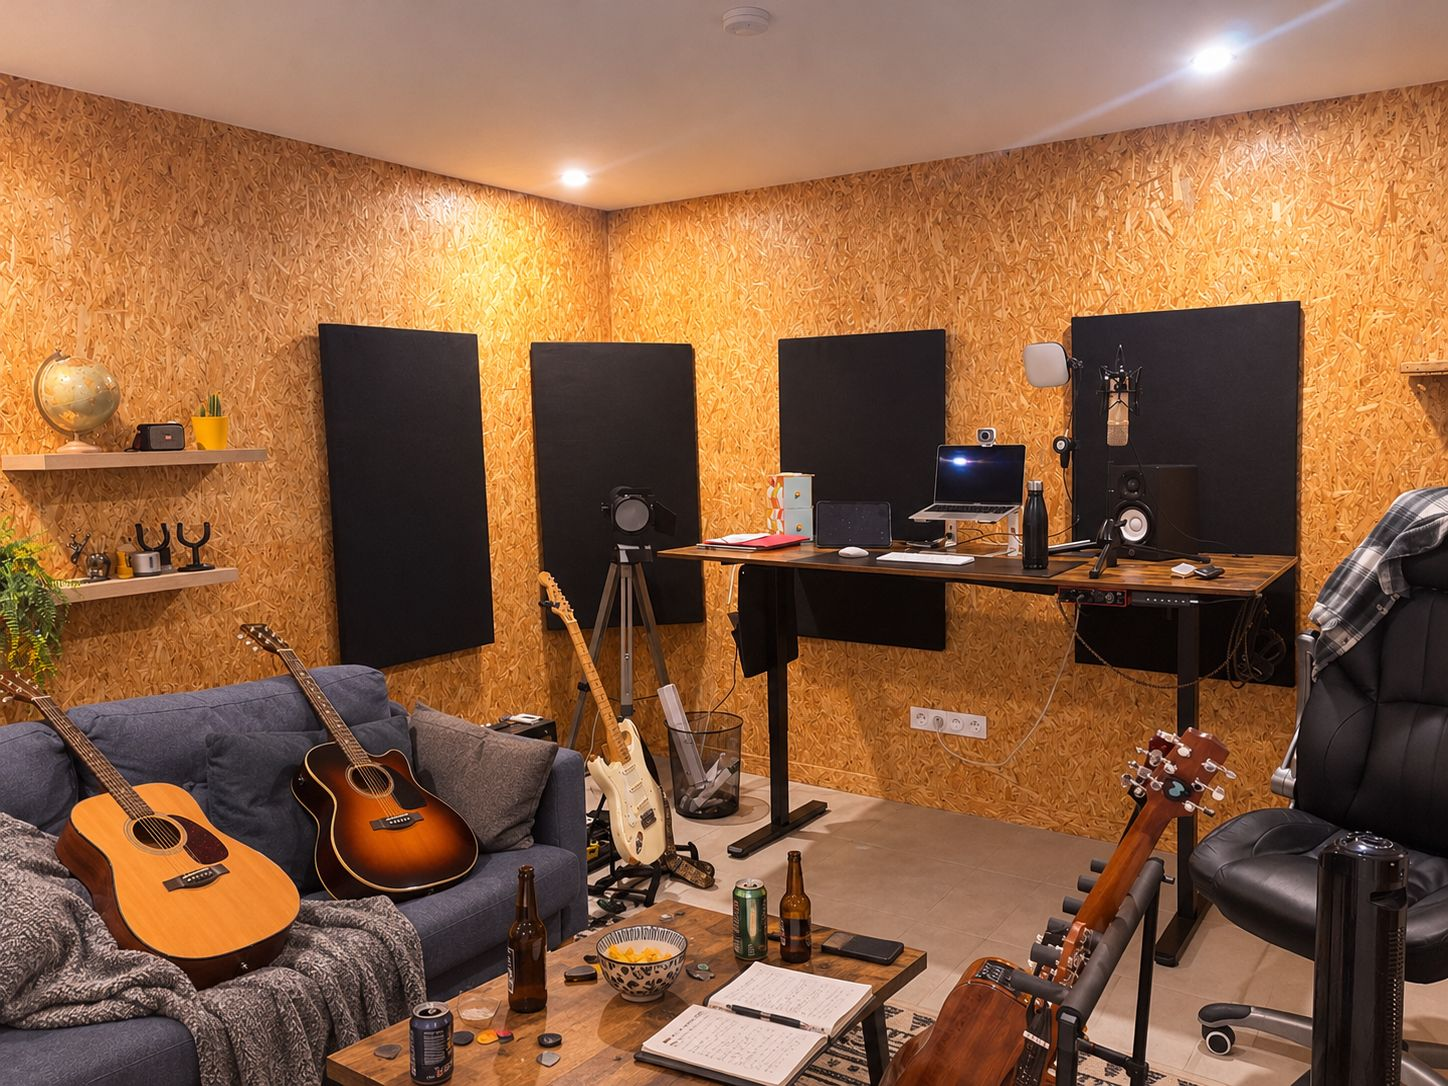
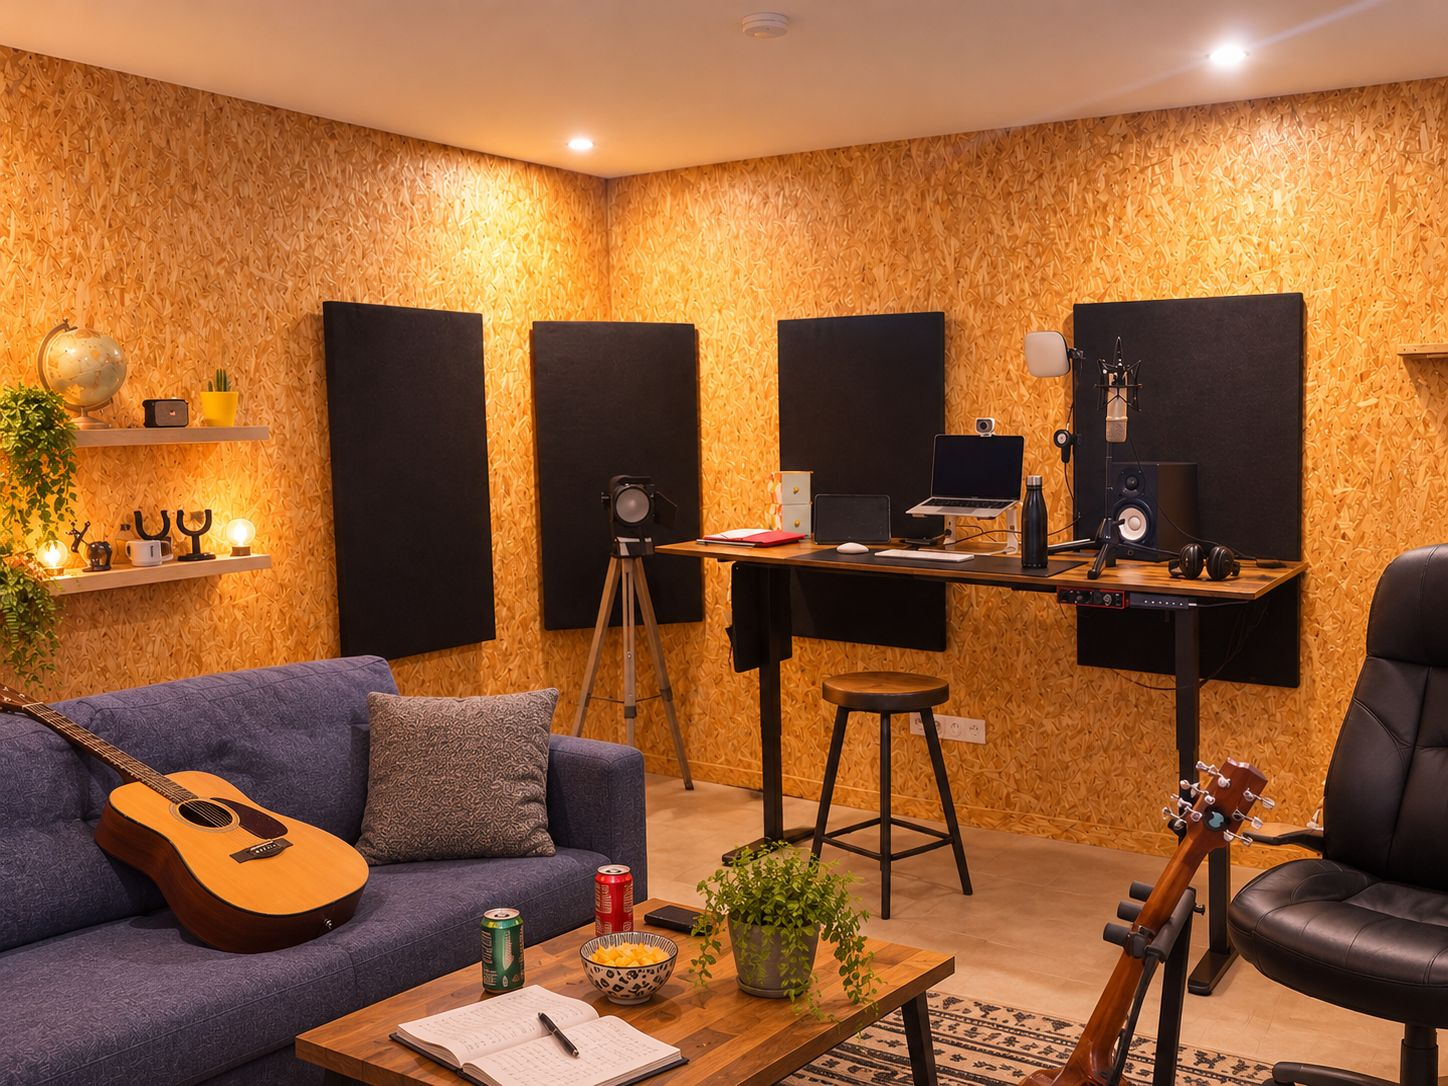
En-tête : nouvelle version de la photo de la salle
Claude-Session: https://claude.ai/code/session_01VNV2ZtL12EU5jWhCuLxuMC

diff --git a/index.html b/index.html
@@ -40,11 +40,11 @@
         <p class="accroche">La jam des musiciens débutants</p>
       </div>
       <img class="hero-photo"
-           src="images/atelier-1448.jpg"
-           srcset="images/atelier-800.jpg 800w, images/atelier-1448.jpg 1448w"
+           src="images/atelier-1448.jpg?v=2"
+           srcset="images/atelier-800.jpg?v=2 800w, images/atelier-1448.jpg?v=2 1448w"
            sizes="(min-width: 900px) 560px, calc(100vw - 44px)"
            width="1448" height="1086" fetchpriority="high" decoding="async"
-           alt="La salle de l'atelier : guitares posées sur le canapé, table basse, murs en bois">
+           alt="La salle de l'atelier : guitare posée sur le canapé, table basse, murs en bois">
       <div class="infos">
         <span class="pastille">Chaque jeudi à 20 h</span>
         <span class="pastille">Allonnes (49)</span>
